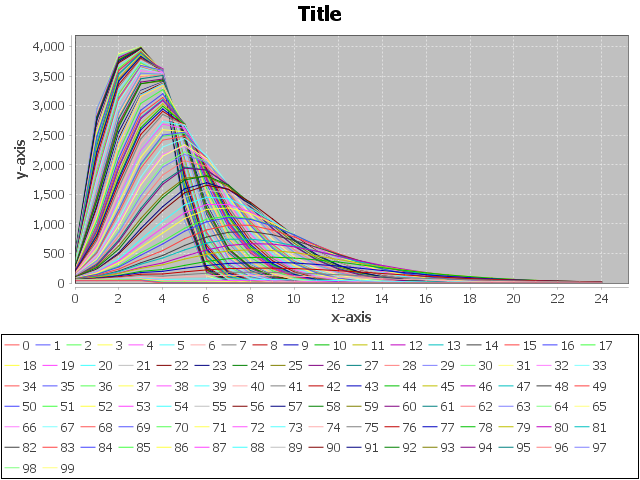
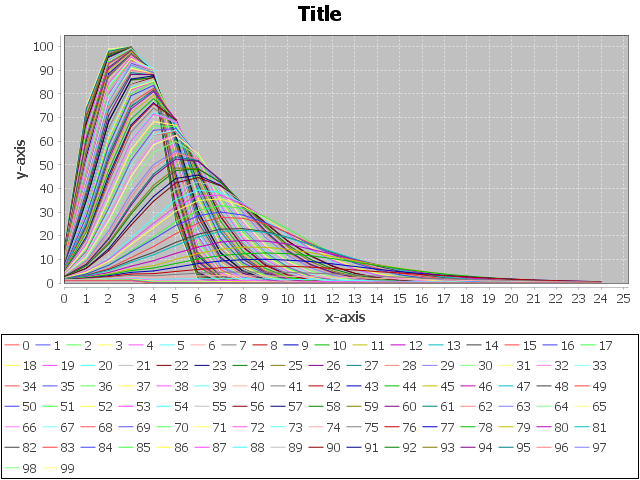
Fixed graph
Everything works now! Fixed large numbers on y-axis. =)

Changed region(s): [[0.0625, 0.0625, 0.9688, 0.6875]]

diff --git a/src/edu/adg/adgsim/Simulator.java b/src/edu/adg/adgsim/Simulator.java
@@ -170,7 +170,7 @@ public class Simulator implements Runnable {
         //Divide by the total number of simulations
         for (DayInfo dayInfo : dayInfos) {
             float sumOfNumbersOfPeopleSickOnThisDay = dayInfo.getNumSick();
-            float averageNumberOfPeopleSickOnThisDay = sumOfNumbersOfPeopleSickOnThisDay / dayInfos.size();
+            float averageNumberOfPeopleSickOnThisDay = sumOfNumbersOfPeopleSickOnThisDay / simulationNum;
             dayInfo.setNumSick(averageNumberOfPeopleSickOnThisDay);
         }
 
